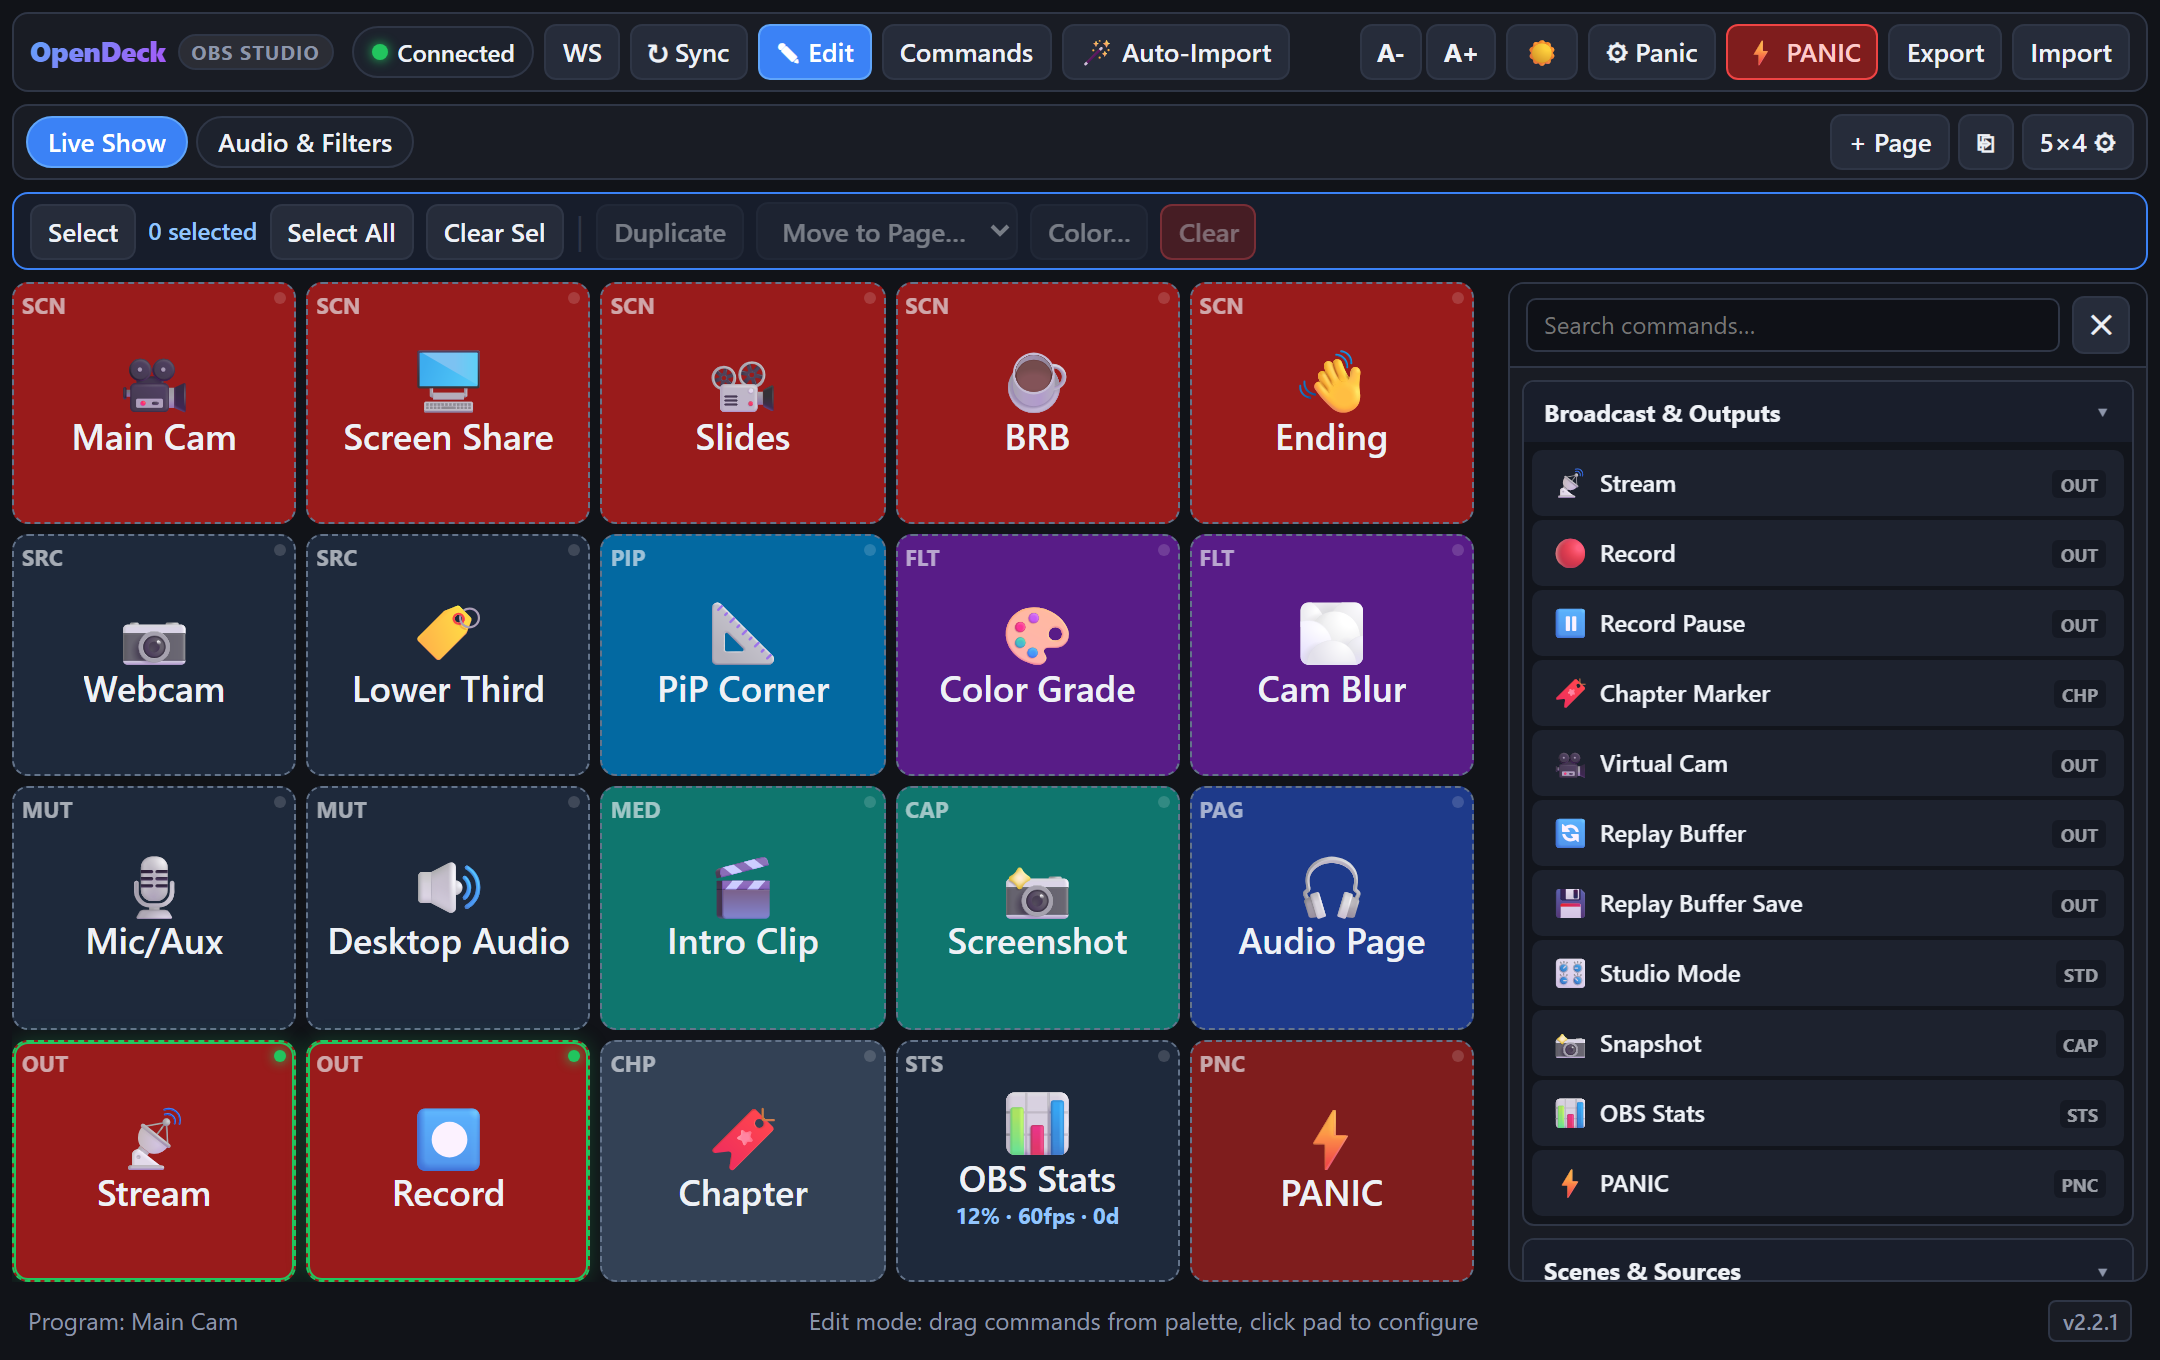
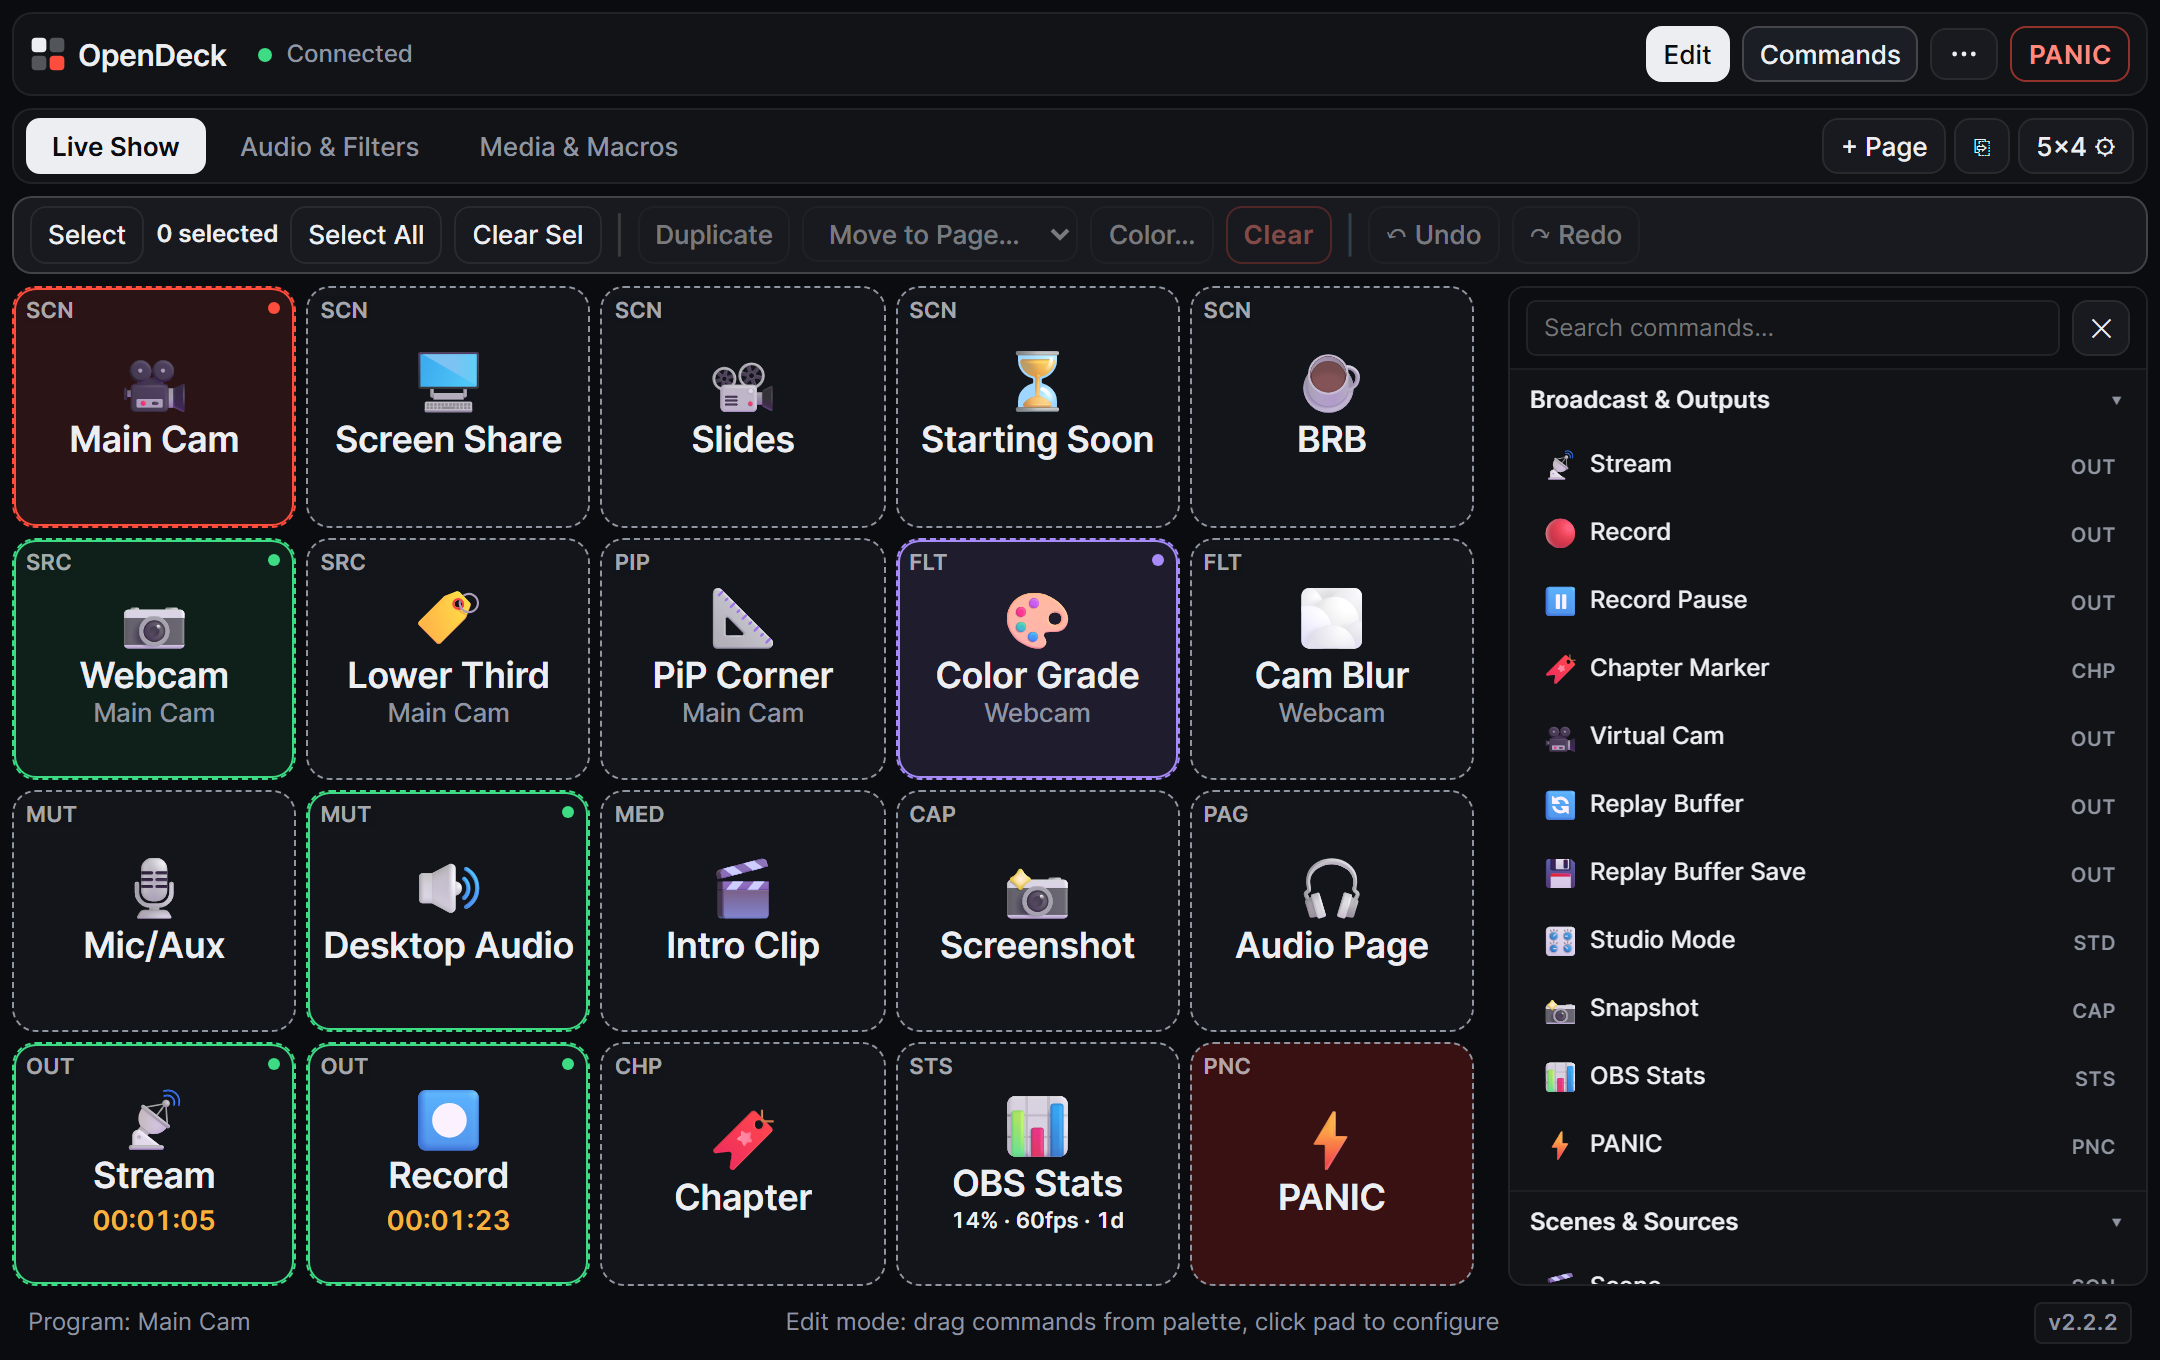
docs(readme): refresh UI v2 & Electron screenshots and guide; fix test dialog race

diff --git a/README.md b/README.md
@@ -2,16 +2,20 @@
 
 [![Latest Release](https://img.shields.io/github/v/release/JWCow/obs-virtual-deck?label=Release&color=2563eb)](https://github.com/JWCow/obs-virtual-deck/releases/latest)
 [![Download ZIP](https://img.shields.io/badge/Download-opendeck.zip-16a34a?logo=github)](https://github.com/JWCow/obs-virtual-deck/releases/latest/download/opendeck.zip)
-[![Platforms](https://img.shields.io/badge/macOS%20%26%20Windows-OBS%2028%2B-334155)](#quick-start)
+[![Platforms](https://img.shields.io/badge/Windows%20%C2%B7%20macOS%20%C2%B7%20Linux%20%C2%B7%20Phone-OBS%2028%2B-334155)](#quick-start-obs-custom-browser-dock)
 
-**Zero-backend virtual Stream Deck for OBS Studio.**  
-Drop `deck.html` into an OBS Custom Browser Dock — no plugins, no server, no build step.
+**Virtual Stream Deck for OBS Studio (`obs-websocket` v5) — zero-backend UI v2.**  
+Run it three ways with the exact same Deck, Pages, and Pads:
 
-**[⬇ Download the latest opendeck.zip](https://github.com/JWCow/obs-virtual-deck/releases/latest/download/opendeck.zip)** · [All Releases](https://github.com/JWCow/obs-virtual-deck/releases)
+- 🖥 **[Desktop App](#%EF%B8%8F-desktop-app-electron)** — Standalone Electron app for **Windows** (`.exe`), **macOS** (`arm64`/`x64` `.dmg`/`.zip`), and **Linux** (`.AppImage`) with tray controls & Always on Top
+- 🔌 **[OBS Browser Dock](#quick-start-obs-custom-browser-dock)** — Drop `deck.html` from [`opendeck.zip`](https://github.com/JWCow/obs-virtual-deck/releases/latest/download/opendeck.zip) into an OBS Custom Browser Dock (no plugins, no server)
+- 📱 **[Phone / Tablet Deck](#-phone-deck)** — Control OBS from any phone on Wi-Fi via `Phone Helper` + QR code
+
+**[⬇ All Desktop & Dock Downloads](https://github.com/JWCow/obs-virtual-deck/releases)** · **[⬇ Latest opendeck.zip](https://github.com/JWCow/obs-virtual-deck/releases/latest/download/opendeck.zip)**
 
 <br>
 
-![OpenDeck Live Deck](docs/screenshots/opendeck-dark.png)
+![OpenDeck Live Deck (Dark Studio)](docs/screenshots/opendeck-dark.png)
 
 <br>
 
@@ -19,19 +23,27 @@ Drop `deck.html` into an OBS Custom Browser Dock — no plugins, no server, no b
 
 | | Feature | What it does |
 |---|---|---|
-| 🪄 | **Auto-Import** | Reads your OBS scenes, sources, filters & audio into ready pages |
-| 🎛 | **23 Actions** | Scenes, PiP, filters, audio, media, streams, stats, hotkeys, HTTP & more |
+| ✨ | **UI v2 & State-First Pads** | Compact `Edit` / `⋯` / `PANIC` header with high-contrast tally states |
+| 🖥 | **Standalone Desktop App** | Windows, macOS & Linux app with `app://opendeck/` storage, tray & Always on Top |
+| 🪄 | **Auto-Import (Read-Only)** | Reads your OBS scenes, sources, filters & audio into ready Pages |
+| 🎛 | **23 Actions & Hold Pads** | Scenes, PiP, filters, audio, media, streams, stats, hotkeys, HTTP & Hold-to-Run |
 | 🖼 | **Custom Icons** | Upload PNG/JPG/WebP/SVG artwork (Fit Icon, Full Face, Hide Text) |
-| 📄 | **Pages & Grids** | Switchable tabs from `2×2` to `12×12`, crisp down to `360×420` docks |
-| ⏱ | **Timers & Macros** | Auto-Off countdowns, multi-step macros with abort cleanup, and **⚡ PANIC** |
-| 🌓 | **Themes & Sizing** | Dark/Light studio toggle + `A-` / `A+` font scaling |
-| 💾 | **Portable JSON** | **Export**, **Import**, or **Import Pages** onto your active deck (passwords stripped) |
+| 📄 | **Pages, Linked Scenes & Undo** | `2×2` to `12×12` grids, Scene-Linked Pages, Undo/Redo, crisp down to `360×420` |
+| ⏱ | **Timers & Macros** | Auto-Off countdowns, multi-step Timed Macros with abort cleanup, and **PANIC** |
+| 🌓 | **Themes, Sizing & Clean View** | Dark/Light Studio toggle, `A-` / `A+` font scaling & **Clean View** (`?clean=1`) |
+| 💾 | **Portable JSON & Snapshots** | **Export Deck**, **Import Pages…**, **Import from Link…** & IndexedDB **Snapshots…** |
 
 <br>
 
 ![OpenDeck Edit Mode & Command Palette](docs/screenshots/opendeck-edit.png)
 
-> **✎ Edit Mode:** Drag commands from the right palette onto pads, drag pads across Page tabs, or multi-select to duplicate, recolor, and move in bulk.
+> **Edit Mode:** Click **Edit** to drag commands from the right palette onto Pads, drag Pads across Page tabs, reorder Pages, or multi-select to duplicate, recolor, and move in bulk.
+
+<br>
+
+![OpenDeck Light Studio & More Menu](docs/screenshots/opendeck-light.png)
+
+> **Light Studio & `⋯` Menu:** Switch between Dark/Light Studio themes, adjust `A-`/`A+` text size, enable **Clean View** (`?clean=1`), or manage **Connection…**, **Auto-Import…**, **Snapshots…**, and **Export Deck** from `⋯`.
 
 <br>
 
@@ -45,14 +57,14 @@ Drop `deck.html` into an OBS Custom Browser Dock — no plugins, no server, no b
 | 🎬 **Scenes** | Switch Scene | `SCN` | Named scene, Next, or Previous |
 | | Studio Mode | `STD` | Toggle, load Preview, or Transition *(Auto-Off)* |
 | | Scene Transition | `TRN` | Switch transition & duration |
-| 🧩 **Sources** | Source Visibility | `SRC` | Toggle, Show, Hide, or Solo *(Auto-Off)* |
+| 🧩 **Sources** | Source Visibility | `SRC` | Toggle, Show, Hide, Solo *(Auto-Off, Hold)* |
 | | Transform / PiP | `PIP` | Corner PiP, Center 50%, or Reset |
 | | Media Playback | `MED` | Play/Pause, Restart, Stop, Next, Prev *(Auto-Off)* |
 | | Image / Slideshow | `IMG` | Swap image path or step slides |
 | | Browser Source | `WEB` | Refresh cache or update URL |
 | | Take Screenshot | `CAP` | Snapshot source or scene |
-| 🎚 **Filters & Audio** | Filter Control | `FLT` | Toggle, Enable, or Disable *(Auto-Off)* |
-| | Input Mute | `MUT` | Toggle, Mute, or Unmute *(Auto-Off)* |
+| 🎚 **Filters & Audio** | Filter Control | `FLT` | Toggle, Enable, or Disable *(Auto-Off, Hold)* |
+| | Input Mute | `MUT` | Toggle, Mute, or Unmute *(Auto-Off, Hold)* |
 | | Input Volume | `VOL` | Set dB or step `+/- dB` |
 | | Audio Monitor | `MON` | Off / Monitor Only / Monitor & Output |
 | 📡 **Broadcast** | Stream / Record / Cam | `OUT` | Stream, Record, Pause, VCam, Replay *(Auto-Off)* |
@@ -69,11 +81,23 @@ Drop `deck.html` into an OBS Custom Browser Dock — no plugins, no server, no b
 
 <br>
 
-## 🚀 Quick Start
+## 🖥 Desktop App (Electron)
 
-**1. 📦 Install** — Download & extract the ZIP (it unpacks to an `obs-virtual-deck` folder), then run the setup helper inside. It copies OpenDeck to `Documents/obs-virtual-deck` and **copies the dock URL to your clipboard**:
+Prefer a standalone window instead of an OBS dock? Download the desktop installer (**Windows** `.exe`, **macOS** Apple Silicon `arm64` & Intel `x64` `.dmg`/`.zip`, **Linux** `.AppImage`) from [Releases](https://github.com/JWCow/obs-virtual-deck/releases) or run it from source.
+
+![OpenDeck Standalone Desktop App](docs/screenshots/opendeck-desktop.png)
+
+- **Stable storage & tray controls:** Serves the Deck from a fixed `app://opendeck/` origin (preserving layouts across updates and Linux AppImage mounts) with window state persistence, Always on Top (`Ctrl/Cmd+Shift+T`), and system tray controls.
+- **Auto port discovery (ADR-0002):** Reads OBS `obs-websocket/config.json` read-only for `server_port` on launch and never reads or persists passwords.
+- **macOS first launch:** Builds are currently unsigned — Right-click `OpenDeck.app` → **Open** (or run `xattr -cr /Applications/OpenDeck.app`), and allow the **Local Network** prompt on macOS Sequoia so OpenDeck can connect to OBS (`ws://127.0.0.1` or LAN). Building macOS `.dmg`/`.zip` targets locally requires a Mac (CI builds them on `macos-latest`).
+
+<br>
+
+## 🚀 Quick Start (OBS Custom Browser Dock)
+
+**1. 📦 Install** — Download & extract [`opendeck.zip`](https://github.com/JWCow/obs-virtual-deck/releases/latest/download/opendeck.zip) (it unpacks to an `obs-virtual-deck` folder), then run the setup helper inside. It copies OpenDeck to `Documents/obs-virtual-deck` and **copies the dock URL to your clipboard**:
 - 🪟 **Windows:** `Install-Windows.bat` *(SmartScreen: More info → Run anyway)*
-- 🍎 **macOS:** `Install-Mac.command` *(Right-click → Open, or run `bash ~/Downloads/obs-virtual-deck/Install-Mac.command` if you extracted it in Downloads)*
+- 🍎 **macOS:** `Install-Mac.command` *(Right-click → Open, or run `bash ~/Downloads/obs-virtual-deck/Install-Mac.command` if extracted in Downloads)*
 
 <br>
 
@@ -85,19 +109,9 @@ Drop `deck.html` into an OBS Custom Browser Dock — no plugins, no server, no b
 
 <br>
 
-**4. 🔗 Connect** — Click **WS**, enter your password (if set), click **Connect**, and run **🪄 Auto-Import**.
+**4. 🔗 Connect** — Open **⋯ → Connection…**, enter your password in **Pass** (if set), click **Connect**, and run **⋯ → Auto-Import…** *(the Desktop App and installers auto-detect your OBS port via ADR-0002 without storing passwords)*.
 
-> 💡 *Upgrading from v1/v2.x?* Opening `deck.html` at the same `file://` path migrates your layout automatically. Click **Export** first for a backup.
-
-<br>
-
-## 🖥 Desktop App (Electron)
-
-Prefer a standalone window instead of an OBS dock? Download the desktop installer (Windows `.exe`, macOS Apple Silicon `arm64` & Intel `x64` `.dmg`/`.zip`, Linux `.AppImage`) from [Releases](https://github.com/JWCow/obs-virtual-deck/releases) or run it from source.
-
-- **Stable storage & tray controls:** Serves the deck from a fixed `app://opendeck/` origin (preserving layouts across updates and Linux AppImage mounts) with window state persistence, Always on Top (`Ctrl/Cmd+Shift+T`), and system tray controls.
-- **Auto port discovery (ADR-0002):** Reads OBS `obs-websocket/config.json` read-only for `server_port` on launch and never reads or persists passwords.
-- **macOS first launch:** Builds are currently unsigned — Right-click `OpenDeck.app` → **Open** (or run `xattr -cr /Applications/OpenDeck.app`), and allow the **Local Network** prompt on macOS Sequoia so OpenDeck can connect to OBS (`ws://127.0.0.1` or LAN). Building macOS `.dmg`/`.zip` targets locally requires a Mac (CI builds them on `macos-latest`).
+> 💡 *Upgrading from v1/v2.x?* Opening `deck.html` at the same `file://` path migrates your layout automatically. Click **⋯ → Export Deck** first for a backup.
 
 <br>
 
@@ -105,17 +119,19 @@ Prefer a standalone window instead of an OBS dock? Download the desktop installe
 
 Control OBS from a phone or tablet on the same Wi-Fi. Needs [Node.js](https://nodejs.org) on the OBS computer.
 
+![OpenDeck Phone Deck Touch View](docs/screenshots/opendeck-phone.png)
+
 1. **Start OBS first** (WebSocket server enabled), then double-click **Phone Helper.bat** (Windows) or run `node scripts/lan-helper.mjs`.
 2. The helper finds the port your running OBS uses, then prints the phone URLs and a **QR code** for your home-network address. Scan it, or type the URL on the phone.
-3. **Your layout:** design the deck on the PC and click **Export**. If `obs-virtual-deck*.json` is in your Downloads folder, Phone Helper serves the newest one and the QR link carries it; the phone asks before loading it (a Snapshot is saved first). Otherwise the phone starts with its own layout. Export again and restart the helper to update it.
+3. **Your layout:** design the Deck on the PC and click **⋯ → Export Deck**. If `obs-virtual-deck*.json` is in your Downloads folder, Phone Helper serves the newest one and the QR link carries it; the phone asks before loading it (a Snapshot is saved first). Otherwise the phone starts with its own layout. Export again and restart the helper to update it.
 
 | Good to know | |
 |---|---|
 | Port | Uses `8765`; if taken, any free port (the URL changes, so use the one printed). Change it in the `.bat`. |
 | Several devices | Any number of phones can open the same link. Each keeps its own layout. |
 | OBS detection | Windows only. Elsewhere it uses `4455` or `--obs-port=`. |
-| Load a layout by hand | **Import Link** with `http://<ip>:<port>/layout.json`. |
-| Password | Never in the link. Type it once on the phone (**WS → Pass**). |
+| Load a layout by hand | **⋯ → Import from Link…** with `http://<ip>:<port>/layout.json`. |
+| Password | Never in the link. Type it once on the phone (**⋯ → Connection… → Pass**). |
 
 <br>
 
@@ -124,10 +140,10 @@ Control OBS from a phone or tablet on the same Wi-Fi. Needs [Node.js](https://no
 | Symptom | Fix |
 |---|---|
 | 🔴 **Disconnected** | Check OBS **Tools → WebSocket Server Settings → Enable WebSocket server** |
-| 🔑 **Auth Failed** | Copy password from OBS **Show Connect Info** into **WS → Pass** |
+| 🔑 **Auth Failed** | Copy password from OBS **Show Connect Info** into **⋯ → Connection… → Pass** |
 | ⬜ **Blank Dock** | URL must start with `file:///` and point to `deck.html` (macOS: allow Files & Folders access) |
-| 🔄 **Missing Items** | Connect to OBS, then click **↻ Sync** |
-| 📂 **Layout Reset / Sharing** | Layouts live in browser storage, not the folder — click **Export** (saving `layout.json` in the deck folder also lets `Phone Helper.bat` and external tools read/extend your deck), **Import Pages** to append new tabs onto an active deck, or **Snapshots** to roll back |
+| 🔄 **Missing Items** | Connect to OBS, then click **⋯ → Sync with OBS** |
+| 📂 **Layout Reset / Sharing** | Layouts live in browser storage, not the folder — click **⋯ → Export Deck** (saving `layout.json` in the deck folder also lets `Phone Helper.bat` and external tools read/extend your deck), **⋯ → Import Pages…** to append new Pages onto an active Deck, or **⋯ → Snapshots…** to roll back |
 | ⌨ **External App Hotkeys** | For OS hotkeys outside OBS (triggered via `API` / `http` pads), launch optional **Hotkey Bridge.bat** (`127.0.0.1:3905/hotkey`) |
 
 <br>
@@ -141,7 +157,7 @@ Control OBS from a phone or tablet on the same Wi-Fi. Needs [Node.js](https://no
 | 🎮 **Gaming PC** (local) | `file:///.../obs-virtual-deck/deck.html?port=4455` |
 | 📡 **Streaming PC** (remote) | `file:///.../obs-virtual-deck/deck.html?host=192.168.1.50&port=4455` |
 
-Each dock connects to the OBS in its own URL, but **both share one layout**: the browser keeps a single storage area for every `file://` page, so copying the folder does not separate them. Keep the controls for both machines on separate Pages. Leave the WS host and port fields alone in these docks; typing a host or port there is saved and then overrides the URL in every dock. On Phone Deck, add the same `?host=` and `?port=` to the LAN URL (e.g. `http://192.168.1.50:8765/deck.html?host=192.168.1.50&port=4455`).
+Each dock connects to the OBS in its own URL, but **both share one layout**: the browser keeps a single storage area for every `file://` page, so copying the folder does not separate them. Keep the controls for both machines on separate Pages. Leave the **Host** and **Port** fields in **⋯ → Connection…** alone in these docks; typing a host or port there is saved and then overrides the URL in every dock. On Phone Deck, add the same `?host=` and `?port=` to the LAN URL (e.g. `http://192.168.1.50:8765/deck.html?host=192.168.1.50&port=4455`).
 
 <br>
 
@@ -151,9 +167,9 @@ Each dock connects to the OBS in its own URL, but **both share one layout**: the
 
 ```bash
 npm install && npx playwright install chromium
-npm run check          # Static syntax, version & PAD_TYPES parity checks
-npm test               # Playwright E2E suites (--section=18 for feature subset)
-npm run build:release  # Build release ZIPs in dist/
+npm run check                  # Static syntax, version & PAD_TYPES parity checks
+npm test                       # Playwright E2E suites (--section=18 for feature subset)
+npm run build:release          # Build release ZIPs in dist/
 npm --prefix electron install  # Install isolated Electron desktop dependencies
 npm run desktop                # Launch the Electron desktop app
 npm run build:desktop          # Build desktop installers in electron/dist/
